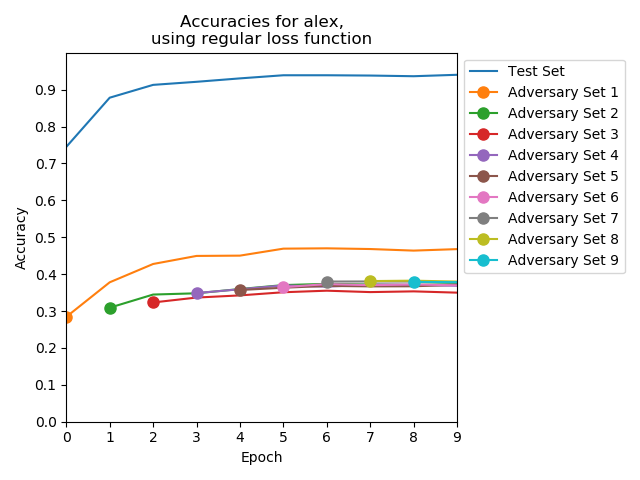
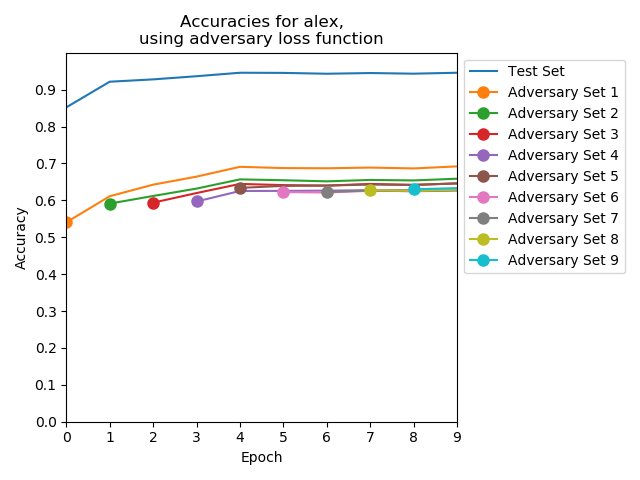
worked on thesis..

diff --git a/Thesis/Thesis.tex b/Thesis/Thesis.tex
@@ -25,6 +25,10 @@
 \usepackage{hyperref}  % Enables cross linking in the electronic document version. This package has to be included second to last.
 \usepackage[acronym,toc]{glossaries} % Enables the generation of glossaries and lists fo acronyms. This package has to be included last.
 
+\usepackage{array}
+\usepackage{longtable}
+\usepackage{csvsimple}
+
 
 % Define convenience functions to use the author name and the thesis title in the PDF document properties.
 \newcommand{\authorname}{Matthias Plasser} % The author name without titles.
@@ -360,7 +364,7 @@ For the examination of the similarity between adversarial inputs and their targe
 The difference of the appearance of adversarials for defended and undefended models should exhibit that improvement of precision of the decision boundary with a higher similarity between adversarial image and target image for defended models than for undefended.
 Another measure of characteristics of the decision boundary is the input gradient, which was also measured for different architectures with different defense strategies in that experiment.
 As the input gradient denotes the change of the output value in relation to change of the input value, a lower input gradient indicates a smoother decision boundary, with a potential higher degree of generalization.
-
+%todo: add motivation for different architectures
 \section{Training Data}
 
 The German Traffic Sign Recognition Benchmark is used as original training data. The set consists of 39209 labeled 64x64 RGB images for training, and 12630 for validation.
@@ -458,7 +462,24 @@ A shift of areas that were most important for an image's classification is expec
 	\label{fig:exp:iat:lenet-5}
 \end{figure}
 
-Figure \ref{fig:exp:iat:lenet-5} shows a comparison of accuracies of a lenet-5 with a regular loss function and a adversarial loss function.
+
+\begin{table}[h]
+	\noindent\makebox[\textwidth]{%
+		\begin{tabular}{|c|c|c|c|c|c|c|c|c|c|c|c|}%
+				\hline
+				\bfseries Loss & \bfseries Test & \bfseries Adv1& \bfseries Adv2& \bfseries Adv3& \bfseries Adv4& \bfseries Adv5& \bfseries Adv6& \bfseries Adv7& \bfseries Adv8& \bfseries Adv9& \bfseries Adv10\\
+				\hline
+				\csvreader[
+					no head,table head=\hline,late after line=\\\hline]
+					{graphics/Results/iterative_adversarial_training/lenet-5/accuracies.csv}{}
+					{\csvcoli & \csvcolii & \csvcoliii & \csvcoliv & \csvcolv & \csvcolvi & \csvcolvii & \csvcolviii & \csvcolix & \csvcolx & \csvcolxi & \csvcolxii}
+		\end{tabular}
+		}
+		\caption{Accuracies in the last epoch for undefended and adversarial loss}
+\end{table}
+
+
+Figure \ref{fig:exp:iat:lenet-5} shows a comparison of accuracies of a lenet-5 with a regular loss function and an adversarial loss function.
 The most striking difference between the two is, that the accuracy of model with the adversarial loss function does not rise as fast and high as the model with regular loss function's accuracy on the test set.
 On the other hand, as expected the accuracy of the adversarially trained model on the adversarial sets is higher than the accuracy of the regularly trained model.
 
@@ -493,6 +514,13 @@ On the other hand, as expected the accuracy of the adversarially trained model o
 	\label{fig:exp:iat:heatmap}
 \end{figure}
 
+Figure \ref{fig:exp:iat:heatmap} compares heatmaps for a letnet-5 correctly classifying the sign 'vehicles over 3.5 metric tons prohibited'.
+Heatmaps of this kind were made for 100 randomly selected pictures from the test set in each epoch of training.
+There is neither a remarkable difference in heatmaps between epoch 1 and epoch 10, nor between the heatmaps of different defense strategies.
+This was also the case for the other architectures used in this work.
+Therefore the heatmaps for the remaining architectures were omitted in the Results chapter, and put into the appendix.
+%todo: add more heatmaps in appendix - 2 per architecture - link here
+
 \FloatBarrier
 
 \subsection{alexnet}
@@ -513,7 +541,26 @@ On the other hand, as expected the accuracy of the adversarially trained model o
   \caption{Accuracies of alexnet in iterative Adversarial Training}
 \end{figure}
 
+\begin{table}[h]
+	\noindent\makebox[\textwidth]{%
+		\begin{tabular}{|c|c|c|c|c|c|c|c|c|c|c|c|}%
+				\hline
+				\bfseries Epoch & \bfseries Test & \bfseries Adv1& \bfseries Adv2& \bfseries Adv3& \bfseries Adv4& \bfseries Adv5& \bfseries Adv6& \bfseries Adv7& \bfseries Adv8& \bfseries Adv9& \bfseries Adv10\\
+				\hline
+				\csvreader[
+					no head,table head=\hline,late after line=\\\hline]
+					{graphics/Results/iterative_adversarial_training/alex/accuracies.csv}{}
+					{\csvcoli & \csvcolii & \csvcoliii & \csvcoliv & \csvcolv & \csvcolvi & \csvcolvii & \csvcolviii & \csvcolix & \csvcolx & \csvcolxi & \csvcolxii}
+		\end{tabular}
+		}
+		\caption{Accuracies during training with adversarial loss}
+\end{table}
+
+For the alexnet, the relative difference between the accuracies of defended and undefended loss on the test set is smaller than for the letnet-5, while the relative distance between accuracies on the adversarial sets is greater.
+
 \FloatBarrier
+\clearpage
+
 \subsection{vgg19}
 
 \begin{figure}[h]
@@ -532,6 +579,24 @@ On the other hand, as expected the accuracy of the adversarially trained model o
   \caption{Accuracies of vgg19 in iterative Adversarial Training}
 \end{figure}
 
+\begin{table}[h]
+	\noindent\makebox[\textwidth]{%
+		\begin{tabular}{|c|c|c|c|c|c|c|c|c|c|c|c|}%
+				\hline
+				\bfseries Epoch & \bfseries Test & \bfseries Adv1& \bfseries Adv2& \bfseries Adv3& \bfseries Adv4& \bfseries Adv5& \bfseries Adv6& \bfseries Adv7& \bfseries Adv8& \bfseries Adv9& \bfseries Adv10\\
+				\hline
+				\csvreader[
+					no head,table head=\hline,late after line=\\\hline]
+					{graphics/Results/iterative_adversarial_training/vgg19/accuracies.csv}{}
+					{\csvcoli & \csvcolii & \csvcoliii & \csvcoliv & \csvcolv & \csvcolvi & \csvcolvii & \csvcolviii & \csvcolix & \csvcolx & \csvcolxi & \csvcolxii}
+		\end{tabular}
+		}
+		\caption{Accuracies during training with adversarial loss}
+\end{table}
+
+The accuracy of the adversarially trained vgg-19 on the test set is even (insignificantly) higher than the accuracy of the undefended version.
+Also the differences in the adversarial accuracies are remarkably higher than for the alexnet and the lenet-5.
+
 \FloatBarrier
 \subsection{resnet-50}
 
@@ -542,7 +607,7 @@ The reason for this probably lies in the high complexity of the adversarial loss
 \section{Discussion}
 
 
-For every architecture, Adversarial Training clearly does increase the robustness for FGSM attacks, while maintaining the validation accuracy.
+For every architecture, Adversarial Training clearly does increase the robustness against FGSM attacks, while maintaining the validation accuracy.
 The adversary accuracies are consistently increased for all Adversary Input sets generated during the experiment, which means that the classifiers actually learn to recognize
 Adversary Inputs, and not to 'hide' them from FGSM while still being vulnerable to them.
 It seems like more complex networks are more adversarially robust, although that cannot be concluded by comparing the performance of 3 architectures.\\
